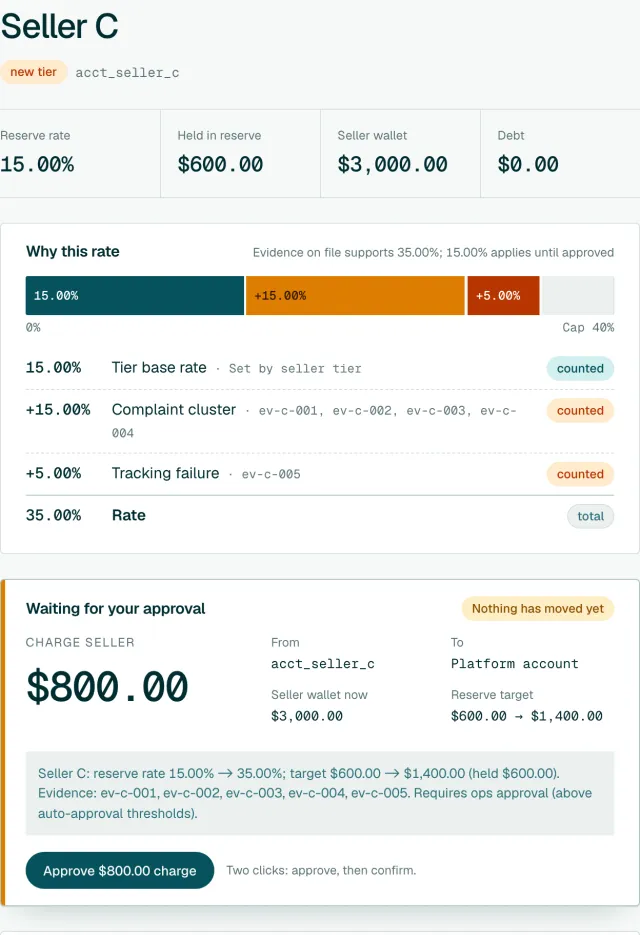
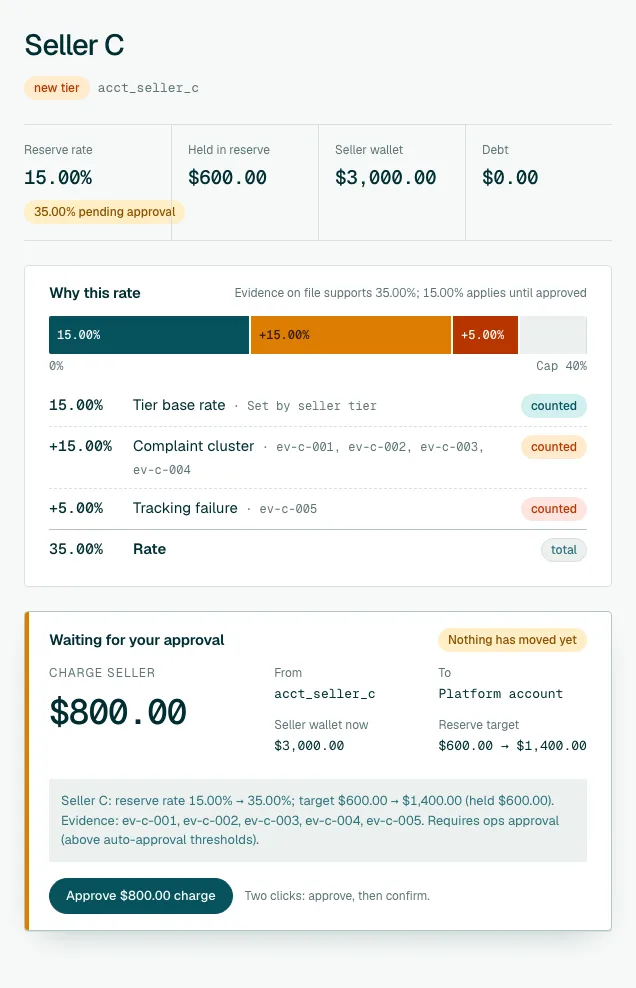
fix: tidy the seller card in the console and the hero picture
- Evidence IDs never break inside an ID (ev-c-004 split at its hyphens), in
  the rate lines and in the approval memo; lists still wrap between IDs.
- A "35.00% pending approval" badge sits under the reserve rate while a
  change waits for approval, and nothing shows otherwise.
- Each "counted" badge takes its bar segment's colour.
- The memo's ASCII "->" shows as the same mono arrow as the reserve target.
- The hero picture is recaptured with a gutter on every side, so the cards
  no longer sit flush against the frame and the slip's shadow ends inside it
  instead of on the next card's edge.

Display only: no amounts, rates or logic change.

diff --git a/src/reserveguard/console/console.js b/src/reserveguard/console/console.js
@@ -164,6 +164,8 @@ async function renderSeller() {
   setText("kpi-debt", usd(statement.debt_cents));
   $("seller-account").textContent = statement.account_id;
   renderWhy(why);
+  $("kpi-pending").hidden = !pending;
+  $("kpi-pending").textContent = pending ? `${pct(pending.decision.new_rate_bps)} pending approval` : "";
   renderApproval(pending);
   renderLedger(statement.entries);
 }
@@ -195,10 +197,12 @@ function renderWhy(why) {
   $("rate-stack").setAttribute("aria-label", `Rate ${pct(why.rate_bps)} of a ${pct(CAP_BPS)} cap`);
 
   const lines = [rateLine("base", why.base_bps, KIND_LABELS.base, "Set by seller tier", "active")];
+  // Each counted signal's badge takes its bar segment's colour (segments alternate risk / risk-strong).
+  const segTone = new Map(counted.map((line, i) => [line, i % 2 ? "risk-strong" : "risk"]));
   for (const line of why.lines) {
     const cites = line.evidence_ids.join(", ");
     const note = line.status === "cleared" ? `${cites} · cleared by ${line.cleared_by.join(", ")}` : cites;
-    lines.push(rateLine(line.kind, line.weight_bps, KIND_LABELS[line.kind] || line.kind, note, line.status));
+    lines.push(rateLine(line.kind, line.weight_bps, KIND_LABELS[line.kind] || line.kind, note, line.status, segTone.get(line)));
   }
   const total = rateLine("total", why.rate_bps, why.capped ? "Rate (capped)" : "Rate", "", "active");
   total.classList.add("total");
@@ -211,12 +215,14 @@ function renderWhy(why) {
   $("rate-note").textContent = note;
 }
 
-function rateLine(kind, bps, label, note, status) {
+function rateLine(kind, bps, label, note, status, riskTone = "risk") {
+  // Split on the separators so each evidence ID is its own unbreakable span.
+  const ids = note ? [" · ", ...note.split(/(, | · )/)].map((part) => (/^(, | · )$/.test(part) ? part : el("span", { className: "id", text: part }))) : [];
   const sign = kind === "base" || kind === "total" ? "" : "+";
   return el("li", { className: "rate-line", dataset: { status } }, [
     el("span", { className: "bps", text: `${sign}${pct(bps)}` }),
-    el("span", { className: "what" }, [el("span", { text: label }), el("span", { className: "ids", text: note ? ` · ${note}` : "" })]),
-    el("span", { className: "chip", dataset: { tone: status === "cleared" || status === "clears" ? "release" : kind === "base" ? "held" : kind === "total" ? "muted" : "risk" }, text: status === "clears" ? "clears" : status === "cleared" ? "cleared" : kind === "total" ? "total" : "counted" }),
+    el("span", { className: "what" }, [el("span", { text: label }), el("span", { className: "ids" }, ids)]),
+    el("span", { className: "chip", dataset: { tone: status === "cleared" || status === "clears" ? "release" : kind === "base" ? "held" : kind === "total" ? "muted" : riskTone }, text: status === "clears" ? "clears" : status === "cleared" ? "cleared" : kind === "total" ? "total" : "counted" }),
   ]);
 }
 
@@ -241,7 +247,13 @@ function renderApproval(pending) {
   $("slip-to").textContent = action === "charge" ? platform : pending.account_id;
   $("slip-wallet").textContent = usd(pending.wallet_cents);
   $("slip-target").textContent = `${usd(pending.plan.held_cents)} → ${usd(pending.plan.target_cents)}`;
-  $("slip-memo").textContent = pending.memo;
+  // Plain server text: evidence IDs never break, and its ASCII "->" shows as the mono → used elsewhere.
+  const memoParts = pending.memo.split(/(\bev-[\w-]*\w|->)/);
+  $("slip-memo").replaceChildren(
+    ...memoParts.map((part) =>
+      part === "->" ? el("span", { className: "arrow", text: "→" }) : /^ev-/.test(part) ? el("span", { className: "id", text: part }) : part,
+    ),
+  );
   $("approve").textContent = cents ? `Approve ${usd(cents)} ${action}` : "Approve rate change";
   $("approve").dataset.cents = String(cents);
   $("approve-hint").textContent = "Two clicks: approve, then confirm.";

diff --git a/src/reserveguard/console/console.css b/src/reserveguard/console/console.css
@@ -131,6 +131,7 @@ button, input, textarea { font: inherit; color: inherit; }
 .chip[data-tone="bad"] { background: var(--bad-soft); color: var(--bad); border-color: transparent; }
 .chip[data-tone="held"] { background: var(--held-soft); color: var(--held); border-color: transparent; }
 .chip[data-tone="risk"] { background: var(--risk-soft); color: var(--risk-strong); border-color: transparent; }
+.chip[data-tone="risk-strong"] { background: var(--bad-soft); color: var(--risk-strong); border-color: transparent; }
 .chip[data-tone="release"] { background: var(--release-soft); color: var(--release); border-color: transparent; }
 
 .btn {
@@ -232,7 +233,10 @@ button, input, textarea { font: inherit; color: inherit; }
 .rate-line .bps { font-family: var(--font-mono); font-weight: 500; }
 .rate-line[data-status="cleared"] .bps, .rate-line[data-status="cleared"] .what { text-decoration: line-through; color: var(--ink-faint); }
 .rate-line .what { min-width: 0; }
-.rate-line .ids { color: var(--ink-faint); font: 400 var(--text-xs) var(--font-mono); overflow-wrap: anywhere; }
+.rate-line .ids { color: var(--ink-faint); font: 400 var(--text-xs) var(--font-mono); }
+.rate-line .id, .slip-memo .id { white-space: nowrap; } /* wrap between IDs, never inside one */
+.arrow { font-family: var(--font-mono); } /* one arrow glyph everywhere */
+.kpi-pending { margin-top: var(--space-2); }
 .rate-line.total { border-top: 1px solid var(--line-strong); font-weight: 600; }
 
 /* ---------- approval slip ---------- */

diff --git a/site/components/sections/Hero.tsx b/site/components/sections/Hero.tsx
@@ -29,10 +29,10 @@ export function Hero() {
           <div className="hero__media span-6 start-7">
             <img
               src="/img/console-approval.webp"
-              srcSet="/img/console-approval-640.webp 640w, /img/console-approval.webp 1248w"
+              srcSet="/img/console-approval-640.webp 636w, /img/console-approval.webp 1272w"
               sizes="(max-width: 1023px) 100vw, 50vw"
-              width={1248}
-              height={1822}
+              width={1272}
+              height={1976}
               alt="The ReserveGuard ops console: Seller C's rate rises from 15% to 35% on two cited risk signals, and an $800.00 charge waits for approval."
               fetchPriority="high"
               data-source="client"

diff --git a/src/reserveguard/console/index.html b/src/reserveguard/console/index.html
@@ -49,7 +49,8 @@
         </header>
 
         <dl class="kpis">
-          <div class="kpi"><dt>Reserve rate</dt><dd id="kpi-rate" class="mono">—</dd></div>
+          <div class="kpi"><dt>Reserve rate</dt><dd id="kpi-rate" class="mono">—</dd>
+            <span id="kpi-pending" class="chip kpi-pending" data-tone="warn" hidden></span></div>
           <div class="kpi"><dt>Held in reserve</dt><dd id="kpi-held" class="mono">—</dd></div>
           <div class="kpi"><dt>Seller wallet</dt><dd id="kpi-wallet" class="mono">—</dd></div>
           <div class="kpi"><dt>Debt</dt><dd id="kpi-debt" class="mono">—</dd></div>
